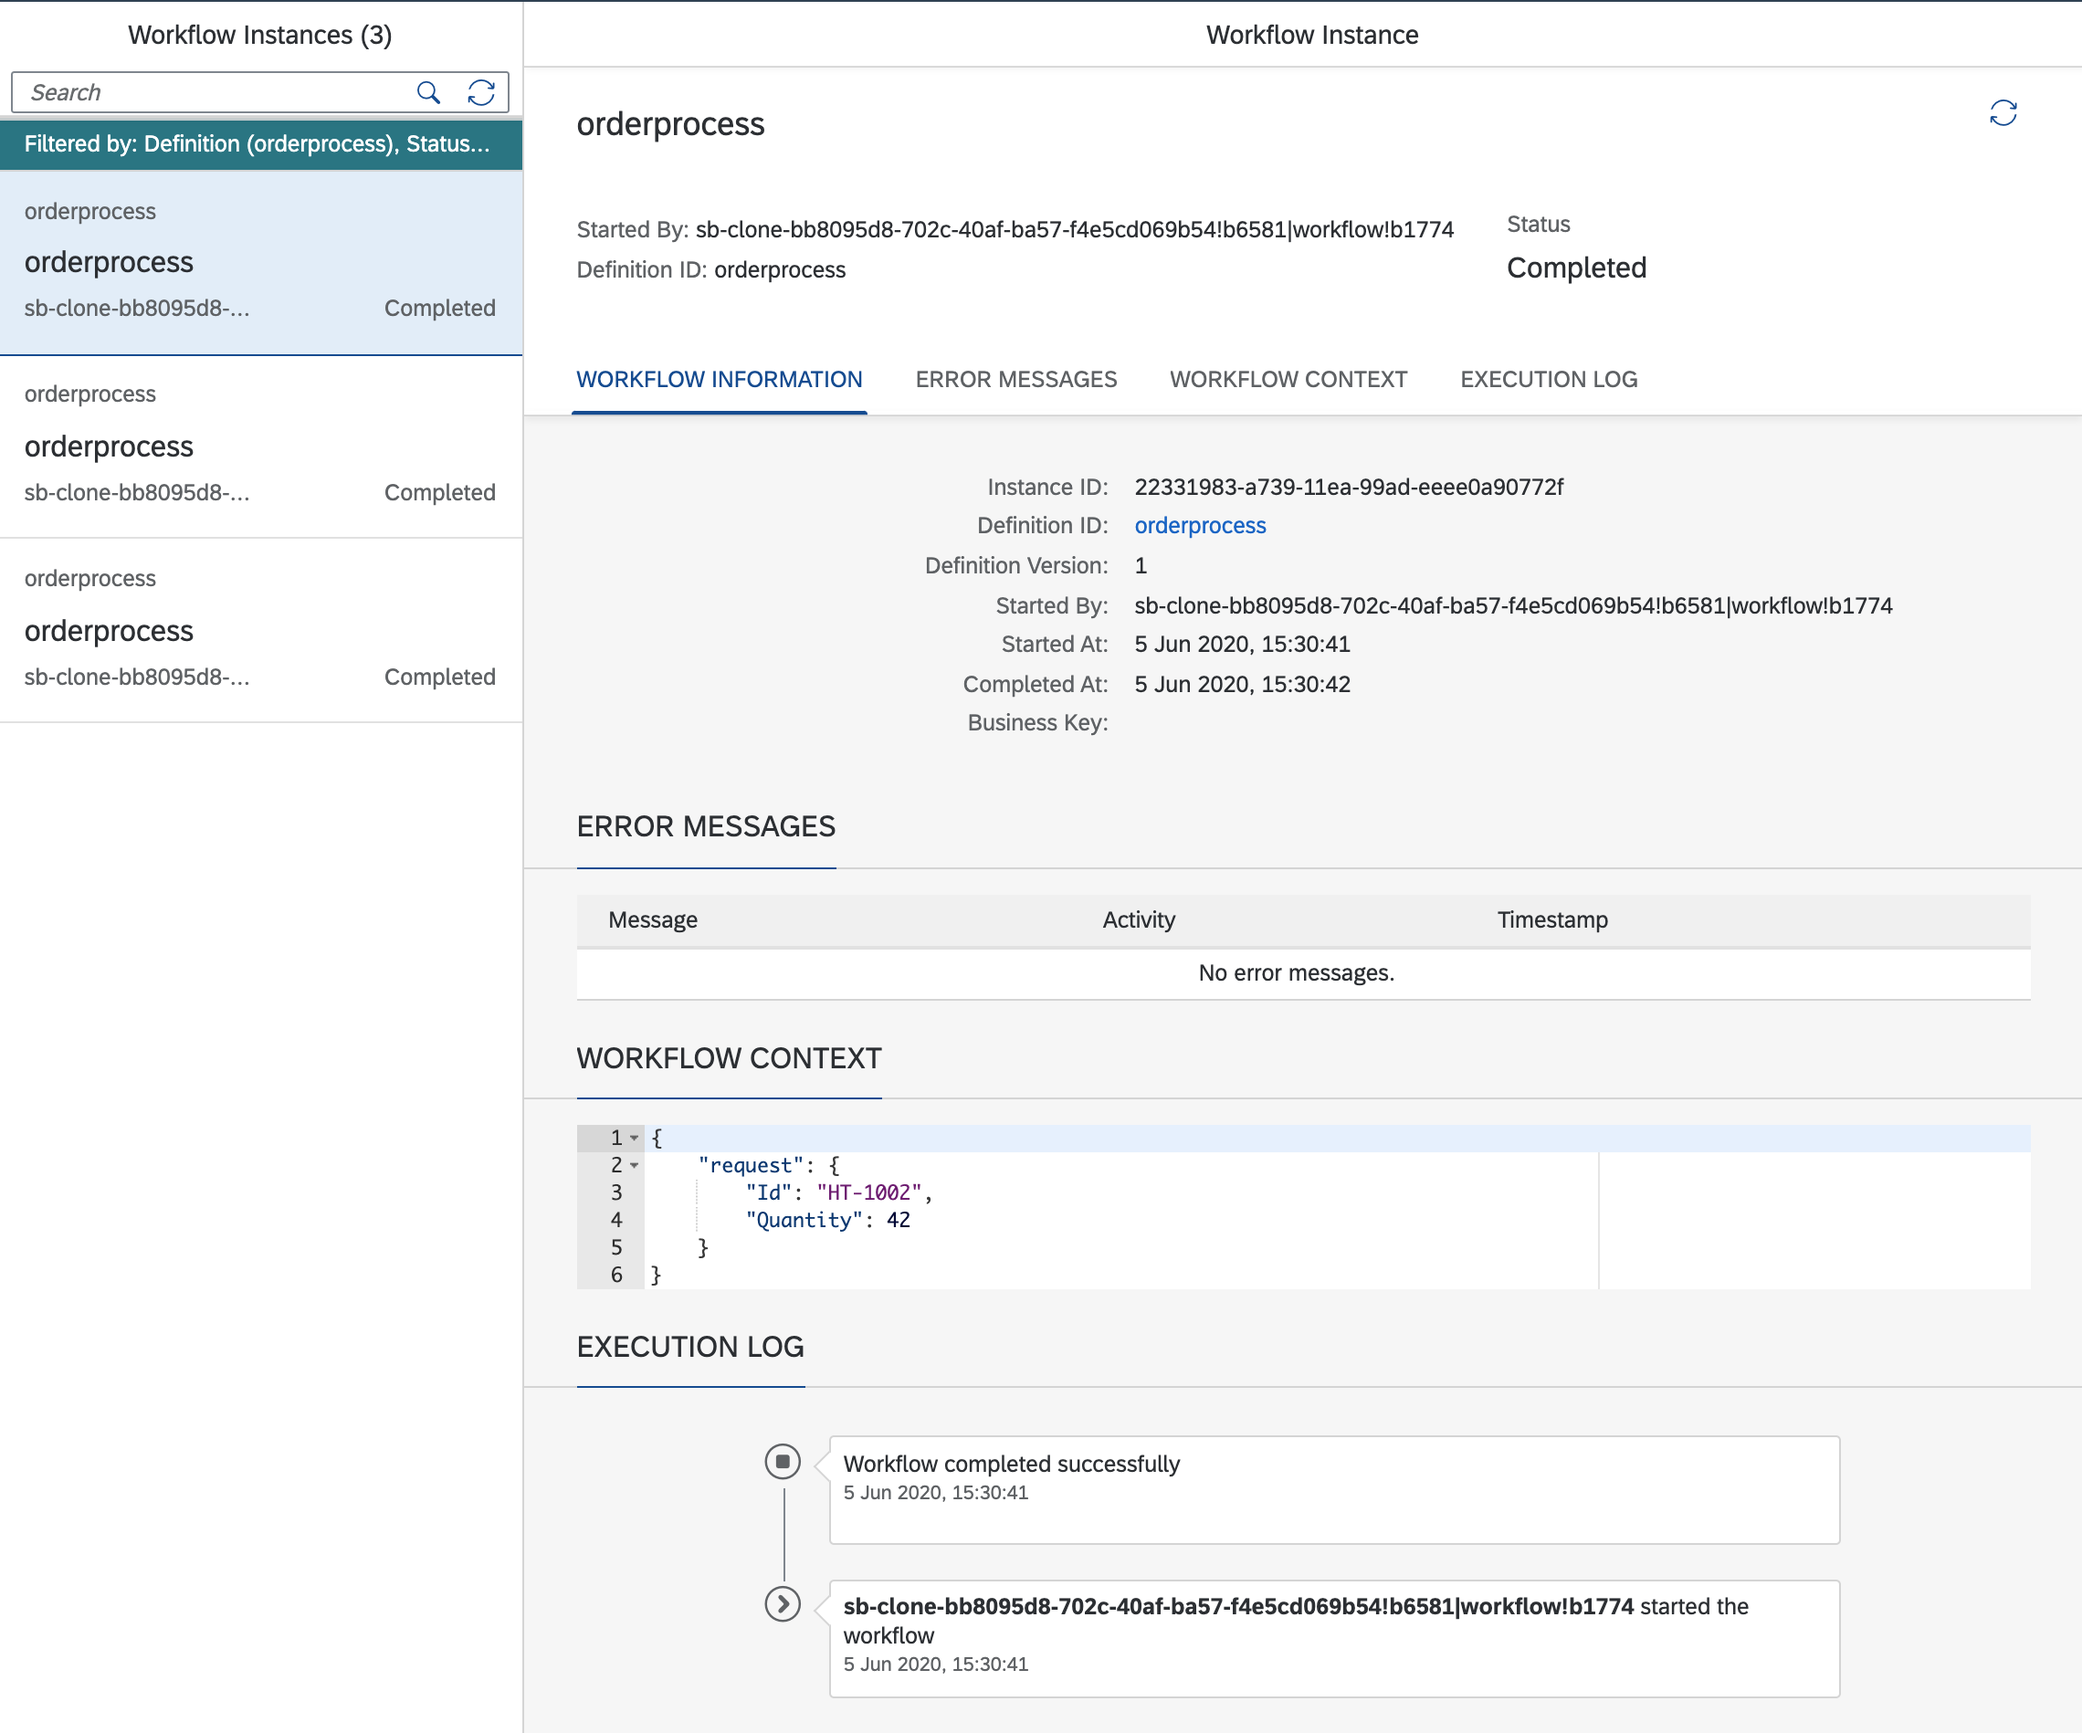
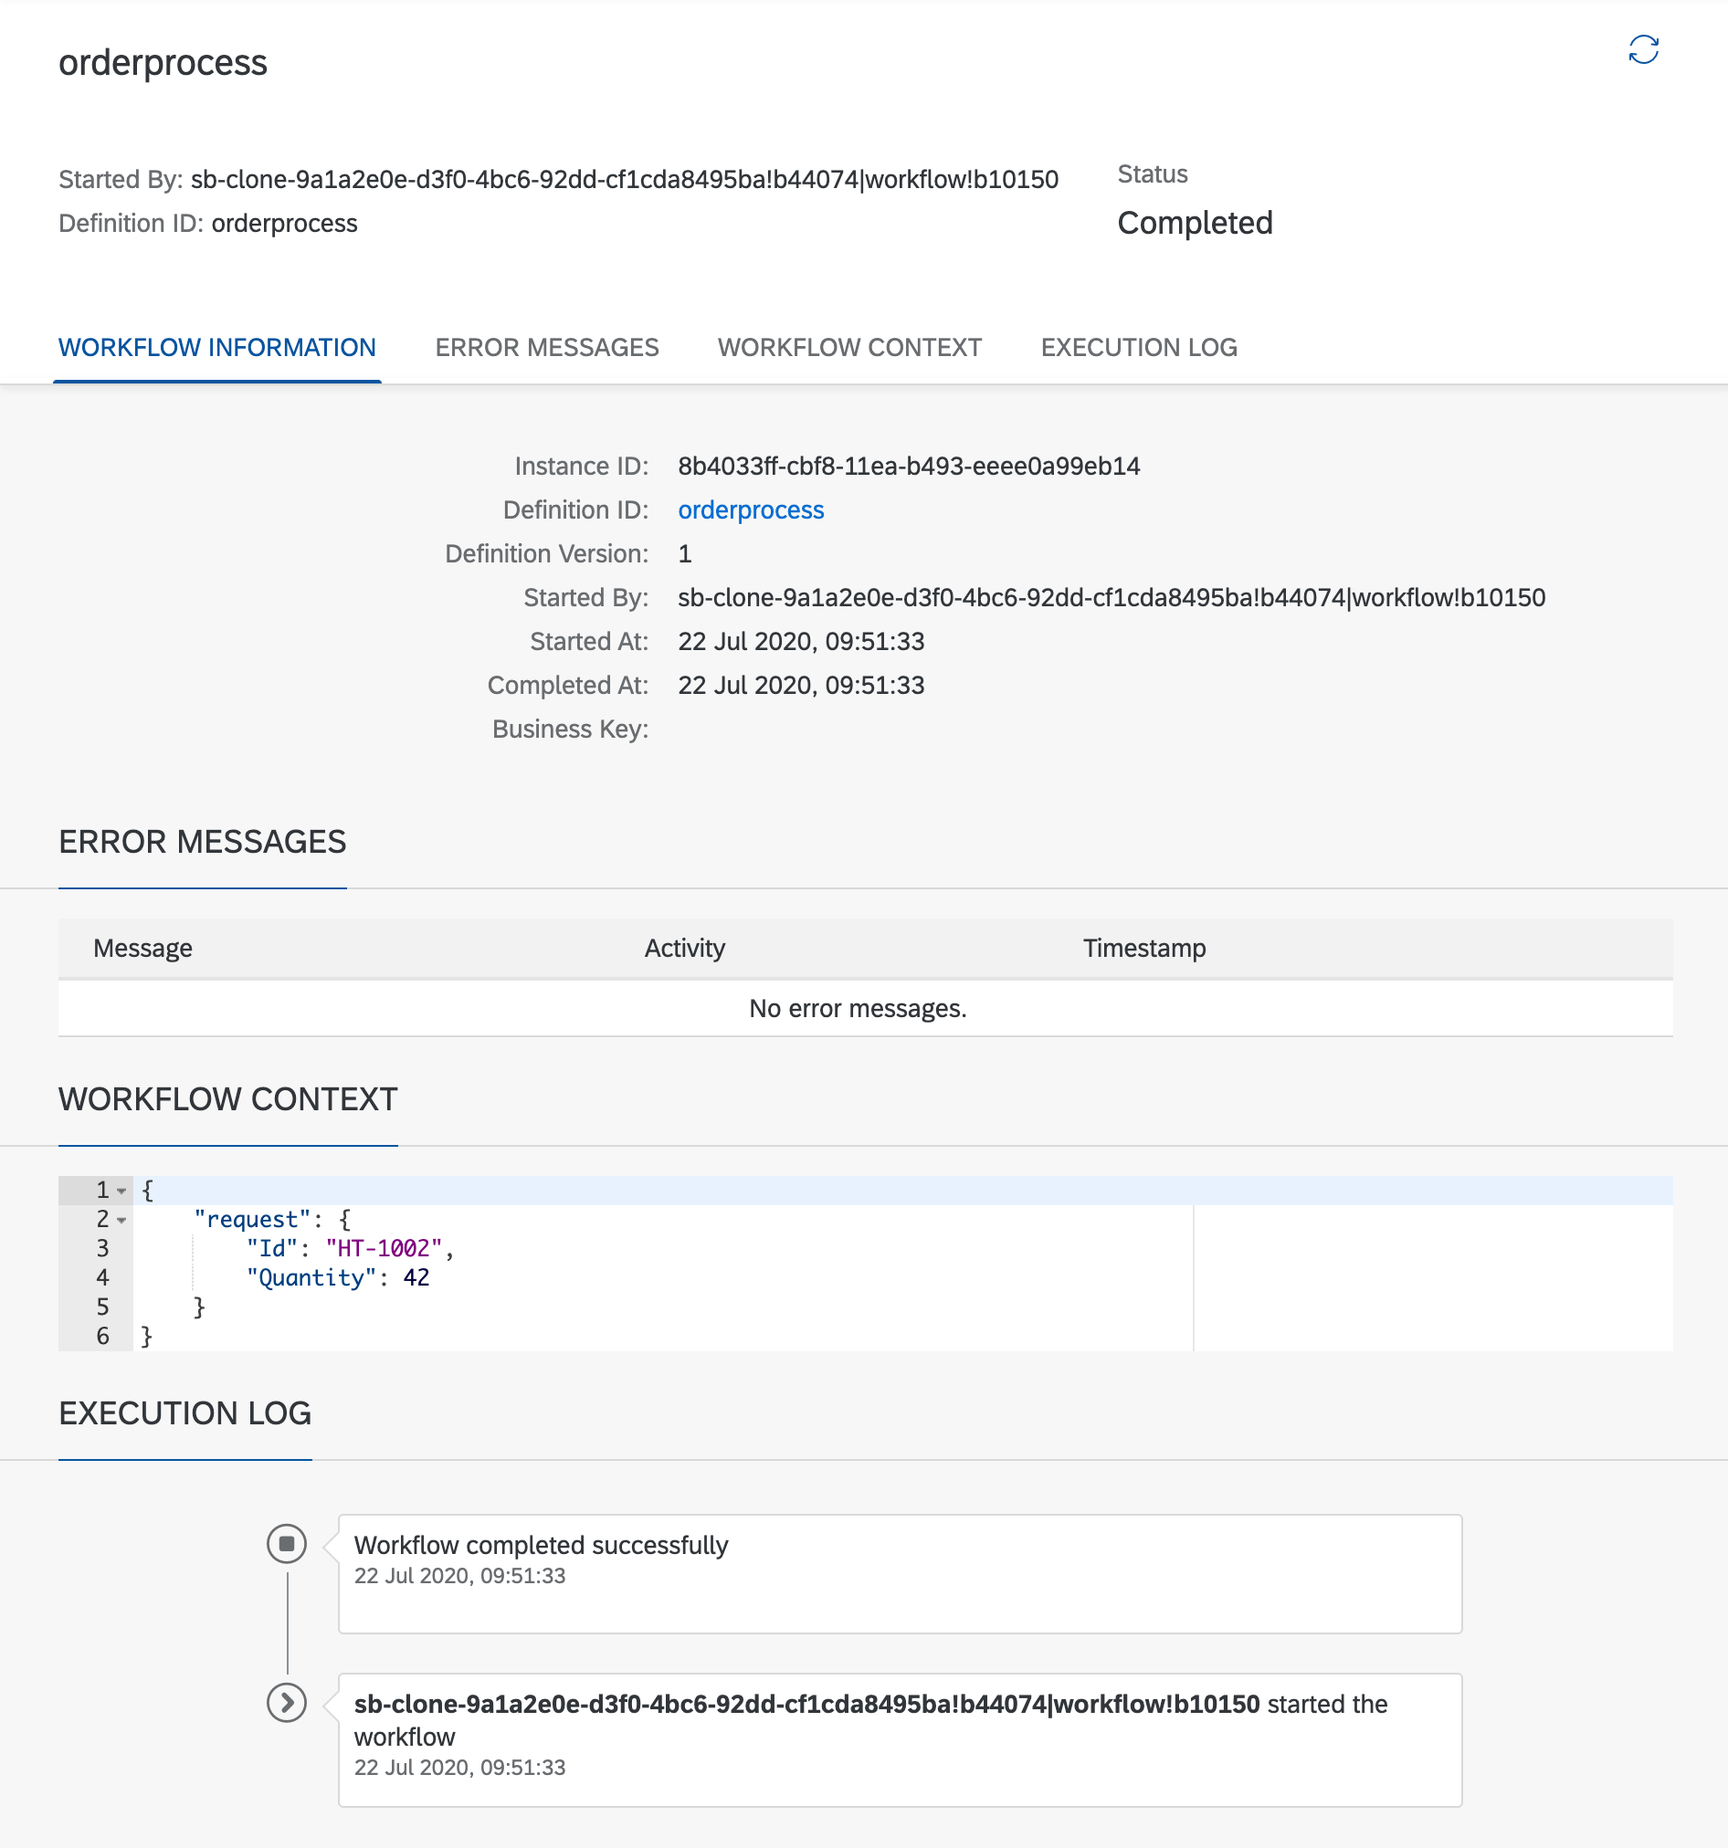
match up instance details

diff --git a/exercises/06/readme.md b/exercises/06/readme.md
@@ -149,13 +149,13 @@ You should see a response with an HTTP status code of 201, and a response body &
 
 ```json
 {
-  "id": "22331983-a739-11ea-99ad-eeee0a90772f",
+  "id": "b2b8f958-cbfe-11ea-a160-eeee0a8df42a",
   "definitionId": "orderprocess",
   "definitionVersion": "1",
   "subject": "orderprocess",
   "status": "RUNNING",
   "businessKey": "",
-  "startedAt": "2020-07-21T14:30:41.697Z",
+  "startedAt": "2020-07-22T09:35:36.882Z",
   "startedBy": "sb-clone-9a1a2e0e-d3f0-4bc6-92dd-cf1cda8495ba!b44074|workflow!b10150",
   "completedAt": null
 }
